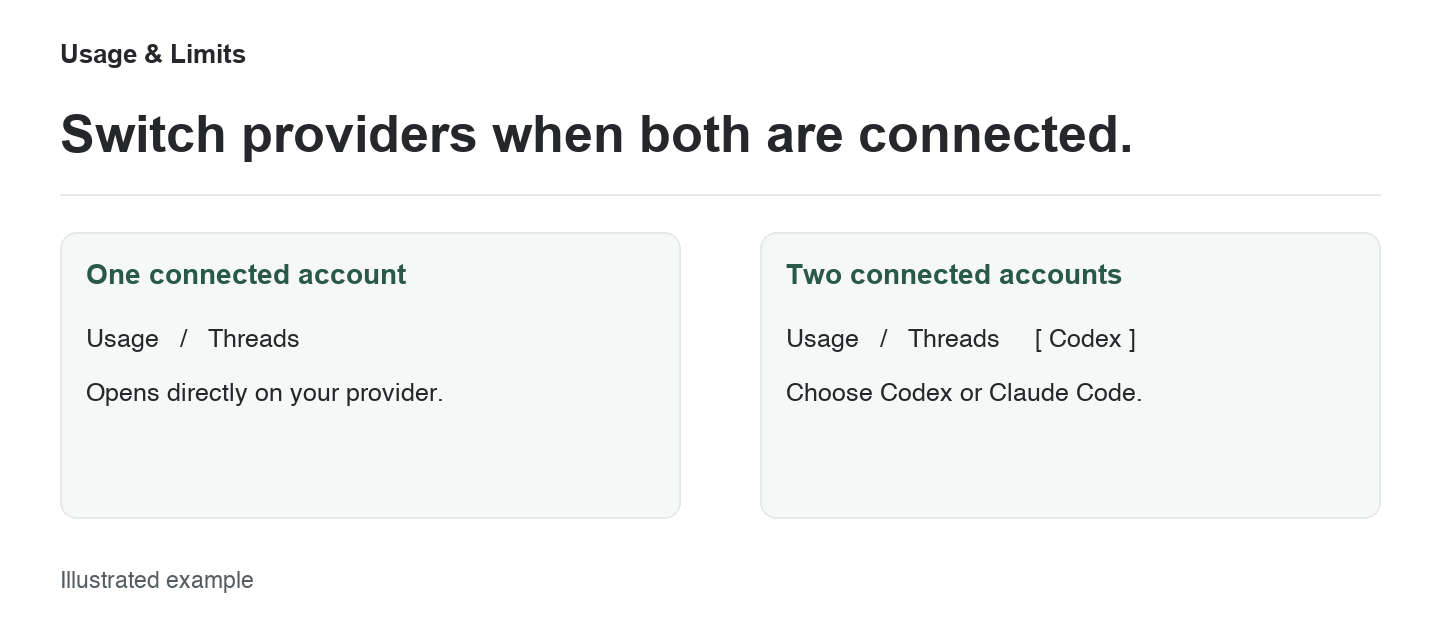
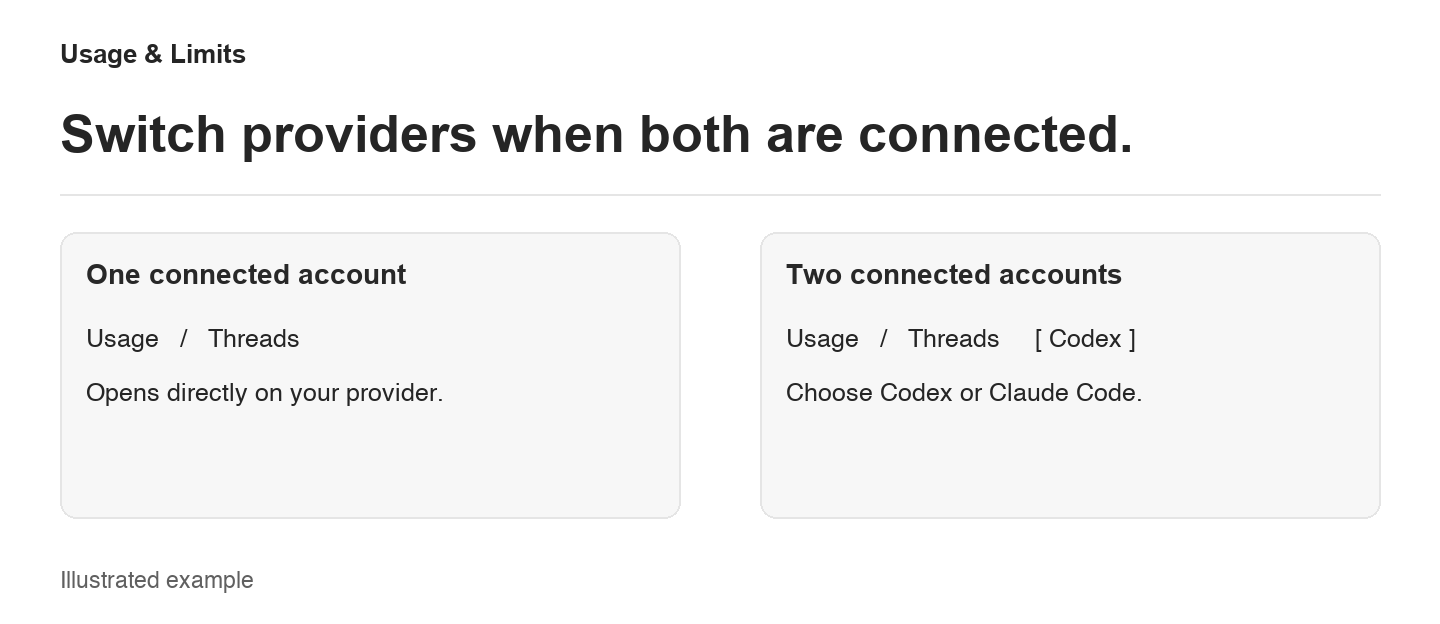
Match BB’s monochrome presentation

Changed region(s): [[0.5312, 0.4263, 0.7812, 0.4567], [0.0625, 0.4263, 0.2812, 0.4567]]

diff --git a/docs/index.html b/docs/index.html
@@ -2,6 +2,6 @@
 <html lang="en"><head><meta charset="utf-8"><meta name="viewport" content="width=device-width, initial-scale=1">
 <title>Usage &amp; Limits · BB plugin</title><meta name="description" content="See how much quota is left and which threads used the most tokens.">
 <meta property="og:type" content="website"><meta property="og:url" content="https://startsevdev.github.io/bb-plugin-usage-and-limits/"><meta property="og:title" content="Usage &amp; Limits"><meta property="og:description" content="See how much quota is left and which threads used the most tokens.">
-<meta property="og:image" content="https://raw.githubusercontent.com/startsevdev/bb-plugin-usage-and-limits/main/assets/social.png"><meta property="og:image:width" content="1280"><meta property="og:image:height" content="640"><meta property="og:image:alt" content="Usage &amp; Limits — See how much quota is left and which threads used the most tokens."><meta name="twitter:card" content="summary_large_image">
+<meta property="og:image" content="https://raw.githubusercontent.com/startsevdev/bb-plugin-usage-and-limits/main/assets/social.png?v=2c688f2d0b"><meta property="og:image:width" content="1280"><meta property="og:image:height" content="640"><meta property="og:image:alt" content="Usage &amp; Limits — See how much quota is left and which threads used the most tokens."><meta name="twitter:card" content="summary_large_image">
 <style>*{box-sizing:border-box}body{margin:0;background:#f7f8f8;color:#222;font:1.15rem/1.5 system-ui,sans-serif}main{max-width:960px;margin:6vh auto;padding:20px}img{width:100%;border:1px solid #ddd;border-radius:16px}a{display:inline-block;padding:.7em 1.1em;border-radius:7px;background:#242729;color:white;font-weight:600;text-decoration:none}</style></head>
-<body><main><img src="https://raw.githubusercontent.com/startsevdev/bb-plugin-usage-and-limits/main/assets/social.png" alt="Usage &amp; Limits"><p>See how much quota is left and which threads used the most tokens.</p><a href="https://github.com/startsevdev/bb-plugin-usage-and-limits#install">View features and install on GitHub</a></main></body></html>
+<body><main><img src="https://raw.githubusercontent.com/startsevdev/bb-plugin-usage-and-limits/main/assets/social.png?v=2c688f2d0b" alt="Usage &amp; Limits"><p>See how much quota is left and which threads used the most tokens.</p><a href="https://github.com/startsevdev/bb-plugin-usage-and-limits#install">View features and install on GitHub</a></main></body></html>
